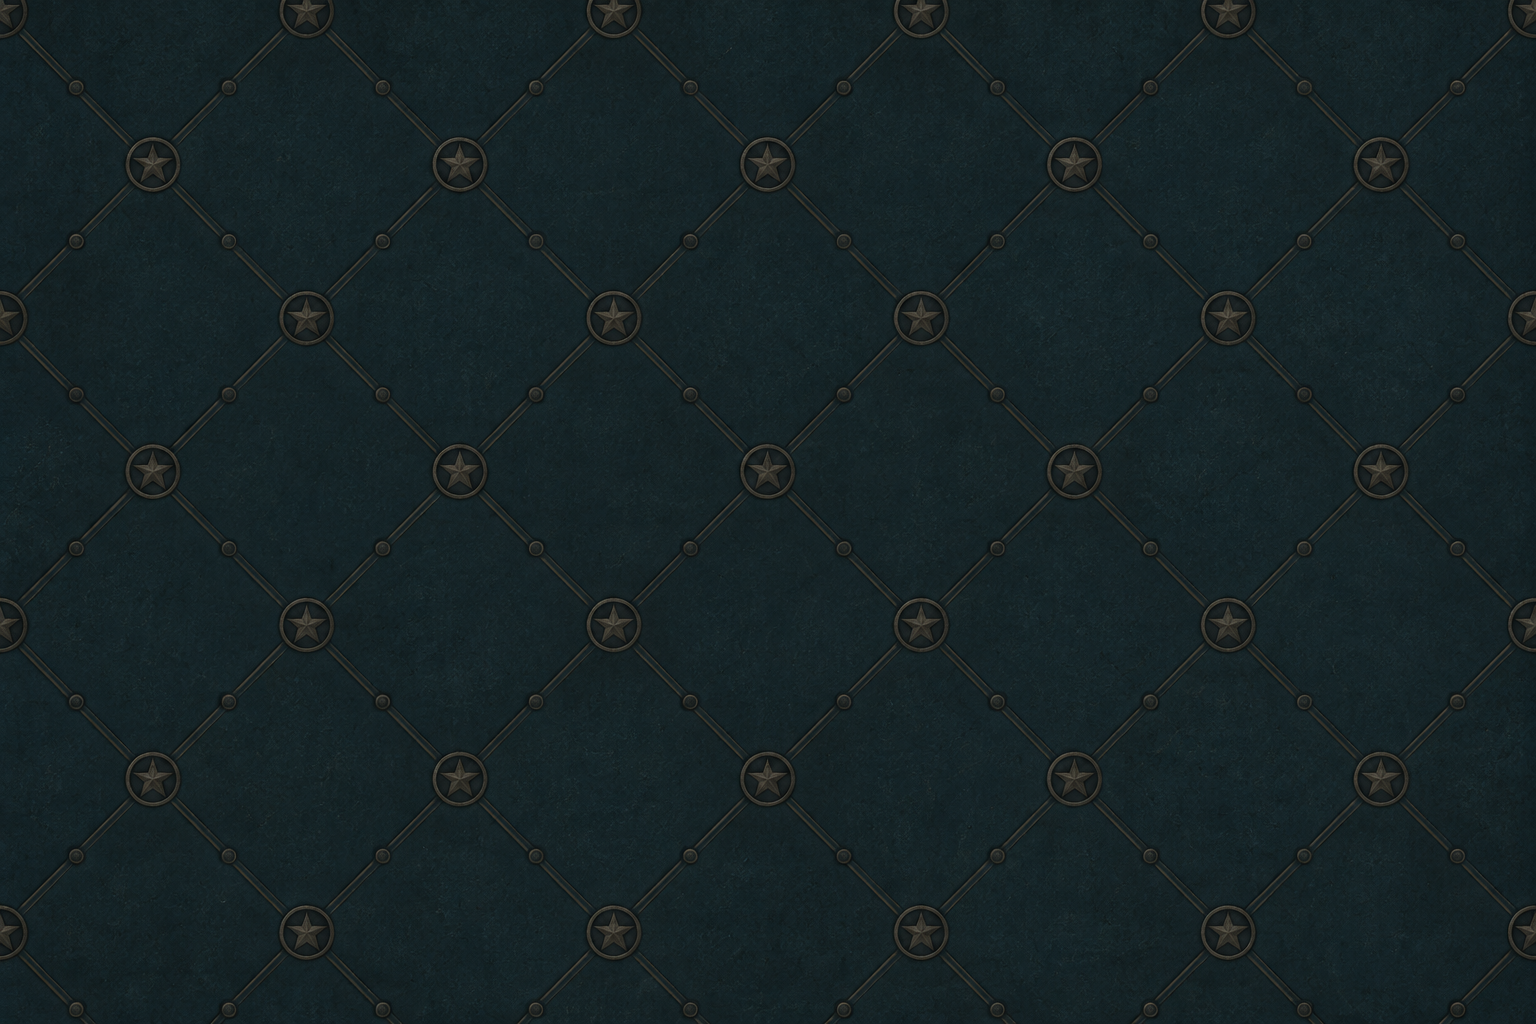
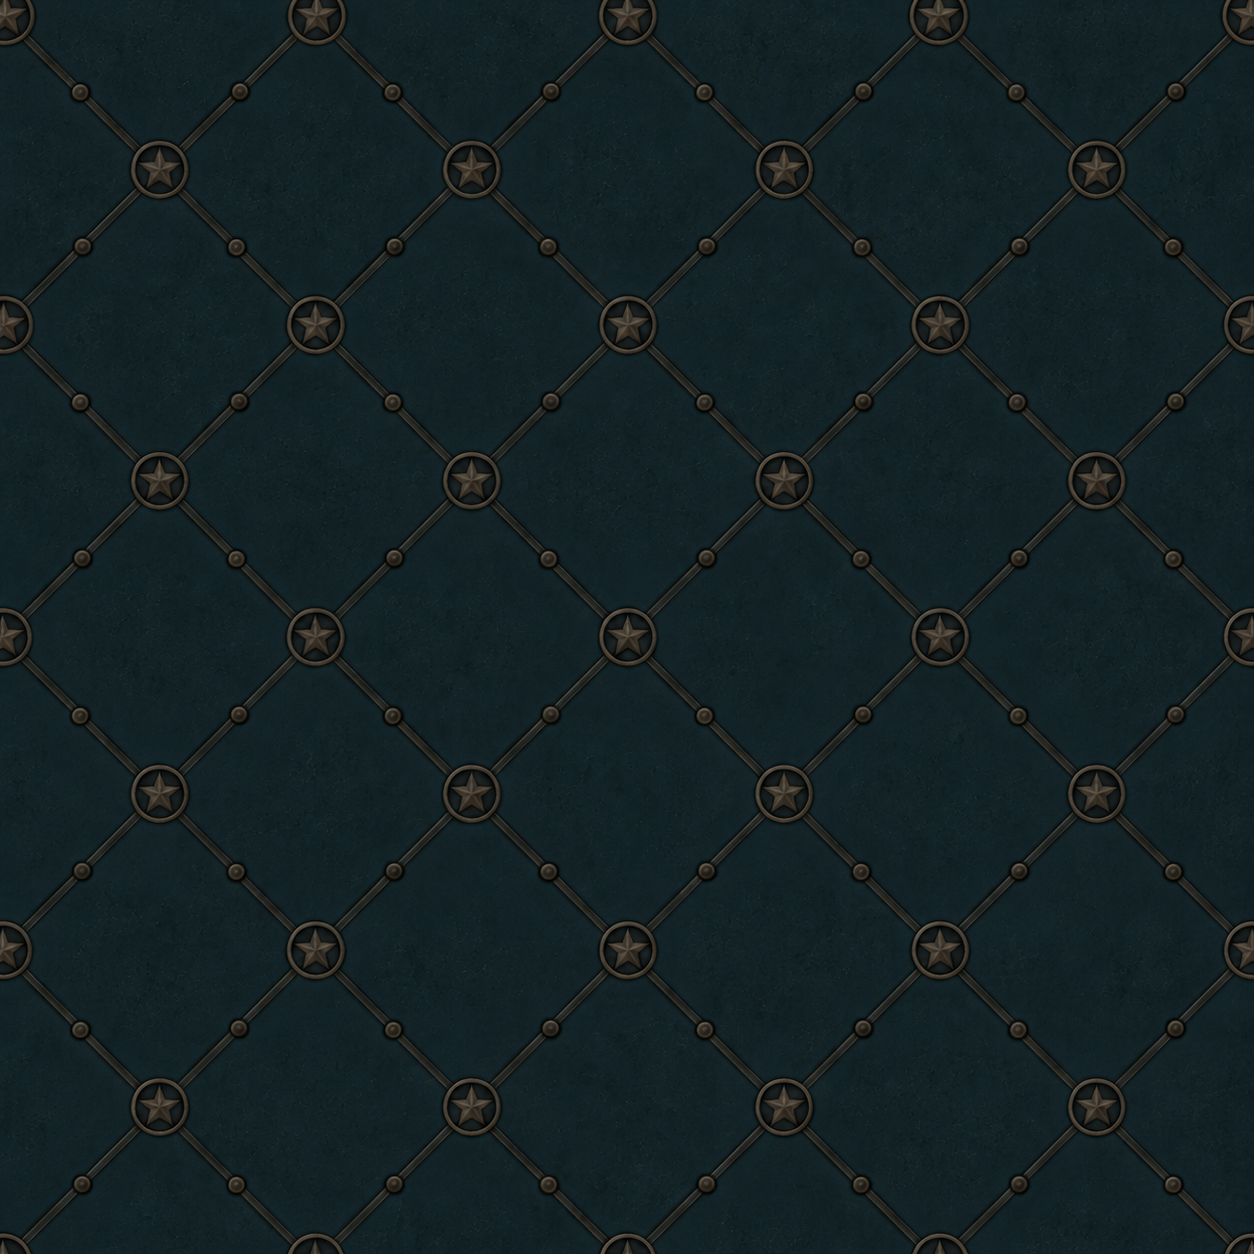
before add about and error page

diff --git a/HTML/restaurant-site/script.js b/HTML/restaurant-site/script.js
@@ -32,86 +32,90 @@ if (menuBody) {
     }
 }
 
-let allMenuItems = [];
+const carousel = document.getElementById("carousel-inner")
 
-function renderCarousel(itemsToDisplay) {
+if(carousel) {
+    let allMenuItems = [];
 
-    const carousel = document.getElementById("carousel-inner")
-    carousel.innerHTML = "";
+    function renderCarousel(itemsToDisplay) {
 
-    itemsToDisplay.forEach((item, index) => {
-        const divEntry = document.createElement('div');
-        if (index === 0) {
-            divEntry.className = "carousel-item active";
-        } else {
-            divEntry.className = "carousel-item";
-        }
-        const img = document.createElement('img');
-        img.src = `./images/${item['img']}`;
-        img.class = 'd-block w-100';
-        img.alt = `${item['img']}`;
-        divEntry.appendChild(img);
 
-        const detailsDiv = document.createElement('div');
-        detailsDiv.innerHTML = `
+        carousel.innerHTML = "";
+
+        itemsToDisplay.forEach((item, index) => {
+            const divEntry = document.createElement('div');
+            if (index === 0) {
+                divEntry.className = "carousel-item active";
+            } else {
+                divEntry.className = "carousel-item";
+            }
+            const img = document.createElement('img');
+            img.src = `./images/${item['img']}`;
+            img.class = 'd-block w-100';
+            img.alt = `${item['img']}`;
+            divEntry.appendChild(img);
+
+            const detailsDiv = document.createElement('div');
+            detailsDiv.innerHTML = `
                 <span class="badge bg-secondary mb-2 text-uppercase small">${item['category']}</span>
                 <h5 class="fw-bold m-0">${item['name']}</h5>
                 <p class="small my-2">${item['description']}</p>
-                <p class="fw-bold  fs-5 m-0" style="color: #111A1C;">$${Number(item['price']).toFixed(2)}</p>
+                <p class="fw-bold  fs-5 m-0" style="color: #111A1C;">${money.format(item['price'])}</p>
                 `;
-        detailsDiv.style.backgroundColor = '#F1E4C5';
-        detailsDiv.style.color = '#1D2C32';
-        detailsDiv.style.border = '2px solid #A45E32'
-        detailsDiv.style.padding = '0.5rem'
-        detailsDiv.style.fontFamily = "Georgia, serif"
-        divEntry.appendChild(detailsDiv);
+            detailsDiv.style.backgroundColor = '#F1E4C5';
+            detailsDiv.style.color = '#1D2C32';
+            detailsDiv.style.border = '2px solid #A45E32'
+            detailsDiv.style.padding = '0.5rem'
+            detailsDiv.style.fontFamily = "Georgia, serif"
+            divEntry.appendChild(detailsDiv);
 
-        carousel.appendChild(divEntry);
-    });
-
-    // Reinitialize the Bootstrap carousel to reset its tracking internals
-    const carouselEl = document.getElementById('carousel');
-    if (window.bootstrap) {
-        new window.bootstrap.Carousel(carouselEl, {
-            ride: true
-        })}
-}
-
-function setupFilters() {
-    const filterButtons = document.querySelectorAll('.filter-btn');
-    const dropdownButton = document.getElementById('dropdownMenuButton');
-
-    filterButtons.forEach(button => {
-        button.addEventListener('click', (e) => {
-            const selectedCategory = e.target.getAttribute('data-category');
-
-            dropdownButton.textContent = e.target.textContent;
-
-            if (selectedCategory === 'all') {
-                renderCarousel(allMenuItems);
-            } else {
-                const filteredItems = allMenuItems.filter(item => item.category === selectedCategory);
-                renderCarousel(filteredItems);
-            }
+            carousel.appendChild(divEntry);
         });
-    });
-}
 
-async function loadMenu(){
-    try{
-        const response = await fetch('menu.json');
-        allMenuItems = await response.json();
-
-        renderCarousel(allMenuItems);
-        setupFilters();
-
-    } catch (error) {
-        console.error('Error loading menu: ', error);
+        // Reinitialize the Bootstrap carousel to reset its tracking internals
+        const carouselEl = document.getElementById('carousel');
+        if (window.bootstrap) {
+            new window.bootstrap.Carousel(carouselEl, {
+                ride: true
+            })
+        }
     }
+
+    function setupFilters() {
+        const filterButtons = document.querySelectorAll('.filter-btn');
+        const dropdownButton = document.getElementById('dropdownMenuButton');
+
+        filterButtons.forEach(button => {
+            button.addEventListener('click', (e) => {
+                const selectedCategory = e.target.getAttribute('data-category');
+
+                dropdownButton.textContent = e.target.textContent;
+
+                if (selectedCategory === 'all') {
+                    renderCarousel(allMenuItems);
+                } else {
+                    const filteredItems = allMenuItems.filter(item => item.category === selectedCategory);
+                    renderCarousel(filteredItems);
+                }
+            });
+        });
+    }
+
+    async function loadMenu() {
+        try {
+            const response = await fetch('menu.json');
+            allMenuItems = await response.json();
+
+            renderCarousel(allMenuItems);
+            setupFilters();
+
+        } catch (error) {
+            console.error('Error loading menu: ', error);
+        }
+    }
+
+    loadMenu();
 }
-
-loadMenu();
-
 
 const reservationForm = document.getElementById("reservation-form");
 if (reservationForm) {
@@ -169,7 +173,8 @@ if (reservationForm) {
             alert.appendChild(list);
         } else {
             const reservation = { name, email, unitSize, date, time, seating, dietaryNotes, newsletter };
-            console.log(reservation);
+            // console.log(reservation);
+            console.log(JSON.stringify(reservation));
             alert.className = "alert alert-success";
             alert.textContent = "Reservation details are valid. Your request has been logged to the console.";
         }

diff --git a/HTML/restaurant-site/menu.html b/HTML/restaurant-site/menu.html
@@ -9,6 +9,8 @@
     <script defer src="script.js"></script>
     <link href="styles.css" rel="stylesheet">
     <script crossorigin="anonymous" src="https://kit.fontawesome.com/7d5c7ceedb.js"></script>
+    <link rel="icon" type="image/x-icon" href="./images/favicon.png">
+    <link href="https://fonts.googleapis.com/css2?family=Balthazar&display=swap" rel="stylesheet">
 </head>
 <body>
 <nav aria-label="Main navigation" class="navbar navbar-expand-lg">
@@ -49,6 +51,7 @@
                     <caption class="menu-caption">
                         MMMMM Seven-Day Fixed Rations
                         <div class="menu-caption-tag">
+                        <!--Font Awesome Used Here For Text Decoration-->
                             <i class="fa-solid fa-fish"></i>
                             <p>Sufficient Fuel for Man, Beast & the Preservation of the Union.</p>
                             <i class="fa-solid fa-bone"></i>
@@ -136,6 +139,7 @@
                 <table class="table menu-table caption-top">
                     <caption>MMMMM À-La-Carte
                         <div class="menu-caption-tag">
+                            <!--Font Awesome Used Here For Text Decoration-->
                             <i class="fa-solid fa-fish"></i>
                             <p>Individual rations — prices per soldier</p>
                             <i class="fa-solid fa-bone"></i>

diff --git a/HTML/restaurant-site/styles.css b/HTML/restaurant-site/styles.css
@@ -56,7 +56,7 @@ body {
 
 
 .navbar-nav {
-    font-family: Copperplate, serif;
+    font-family: Balthazar, serif;
 }
 
 
@@ -336,12 +336,12 @@ img {
     max-width: calc(100% - 70px);
     white-space: normal;
     color: var(--parchment);
-    font-family: Copperplate, serif;
+    font-family: Balthazar, serif;
     font-size: 1rem;
 }
 
 .navbar-brand span {
-    max-width: 260px;
+    max-width: 200px;
 }
 
 .navbar-brand .img-logo {
@@ -363,5 +363,22 @@ img {
 .form-group-radio label {
     margin-left: 0.5em;
 }
+
+body {
+    background-image: url('./images/background.png');
+    background-repeat: repeat;
+    background-position: top left;
+    background-size: 200px 200px;
+}
+
+
+/*Use Google Font Balthazar for all H1 headings*/
+h1 {
+    font-family: Balthazar, serif !important;
+}
+/*!*Use Google Font Balthazar for all navbar text*!*/
+/*.navbar-nav, .navbar-brand {*/
+/*    font-family: Balthazar, serif !important;*/
+/*}*/
 
 /*Font awesome is used on the menu page for the icons on either side of the menu caption flavor text */

diff --git a/HTML/restaurant-site/reservations.html b/HTML/restaurant-site/reservations.html
@@ -8,13 +8,15 @@
     <script defer src="https://cdn.jsdelivr.net/npm/bootstrap@5.3.8/dist/js/bootstrap.bundle.min.js"></script>
     <script defer src="script.js"></script>
     <link href="styles.css" rel="stylesheet">
+    <link rel="icon" type="image/x-icon" href="./images/favicon.png">
+    <link href="https://fonts.googleapis.com/css2?family=Balthazar&display=swap" rel="stylesheet">
 </head>
 <body>
 <nav aria-label="Main navigation" class="navbar navbar-expand-lg">
     <div class="container">
         <a class="navbar-brand d-flex align-items-center gap-2" href="index.html">
             <img alt="Airship with 5M designator" class="img-logo" height="100"
-                 src="./images/MMMMM%20logo.png" width="100">
+                 src="./images/favicon.png" width="100">
             <span>Major McClellan's Migrating Mechanical Mess</span>
         </a>
         <button aria-controls="main-nav" aria-expanded="false" aria-label="Toggle navigation"

diff --git a/HTML/restaurant-site/index.html b/HTML/restaurant-site/index.html
@@ -14,6 +14,7 @@
     <link href="https://fonts.googleapis.com" rel="preconnect">
     <link crossorigin href="https://fonts.gstatic.com" rel="preconnect">
     <link href="https://fonts.googleapis.com/css2?family=Balthazar&display=swap" rel="stylesheet">
+    <link rel="icon" type="image/x-icon" href="./images/favicon.png">
 </head>
 <body>
 
@@ -21,7 +22,7 @@
     <div class="container">
         <a class="navbar-brand d-flex align-items-center gap-2" href="index.html">
             <img alt="Airship with 5M designator" class="img-logo" height="100"
-                 src="./images/MMMMM%20logo.png" width="100">
+                 src="./images/favicon.png" width="100">
             <span>Major McClellan's Migrating Mechanical Mess</span>
         </a>
         <button aria-controls="main-nav" aria-expanded="false" aria-label="Toggle navigation"
